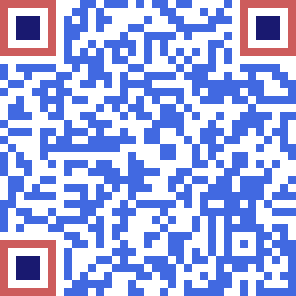
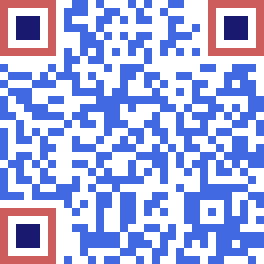
[modified] adjust the apk download link and QRCode

diff --git a/README.md b/README.md
@@ -23,7 +23,7 @@ Scan the QRCode  below to install the release apk file.
 
 （Use browsers that support QRCode scanning）
 
-![扫码下载](https://github.com/Sandwich2080/AlbumKt/releases)
+![扫码下载](app/release/QRCode_app_release.png)
 
 # FQA
 ## 1. You may face the following problem when building a release apk
